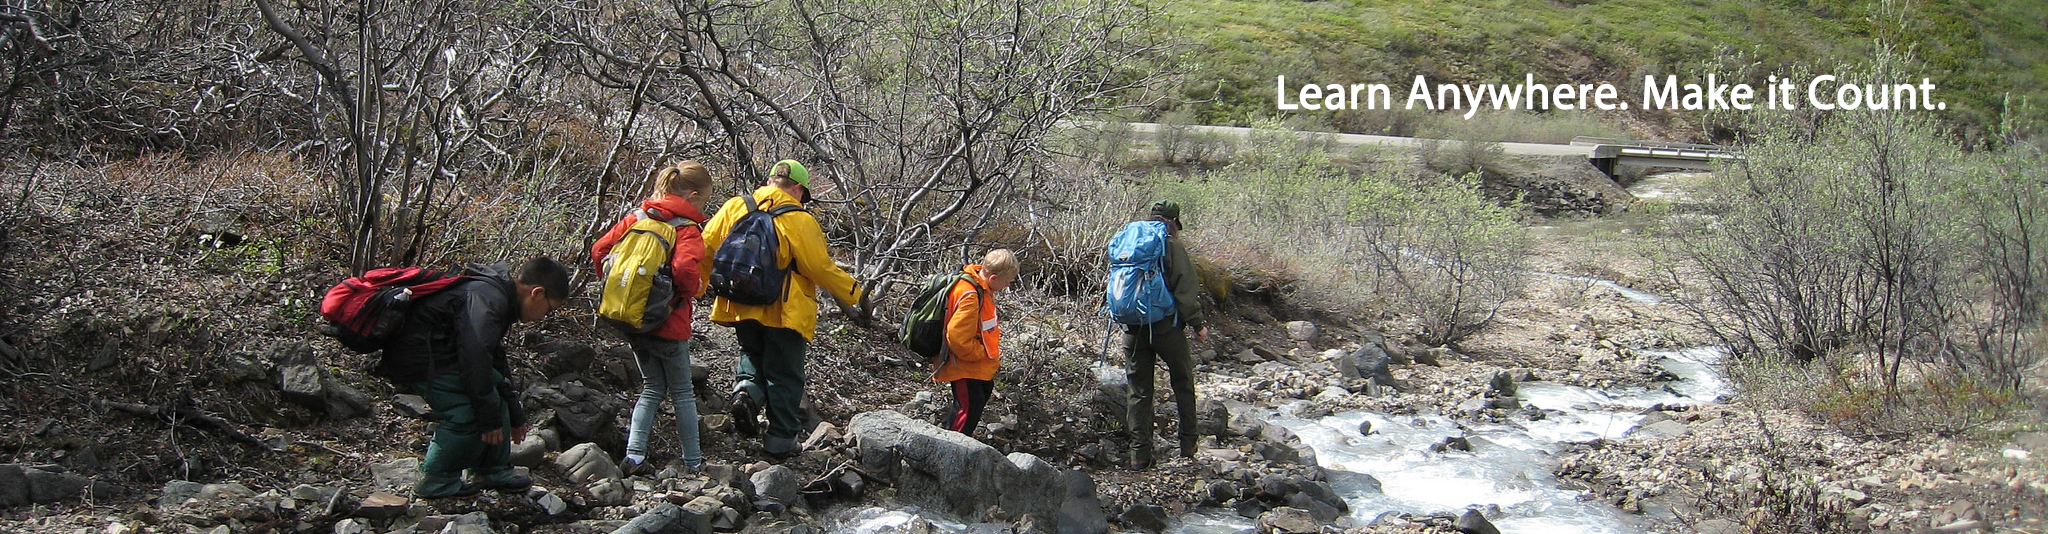
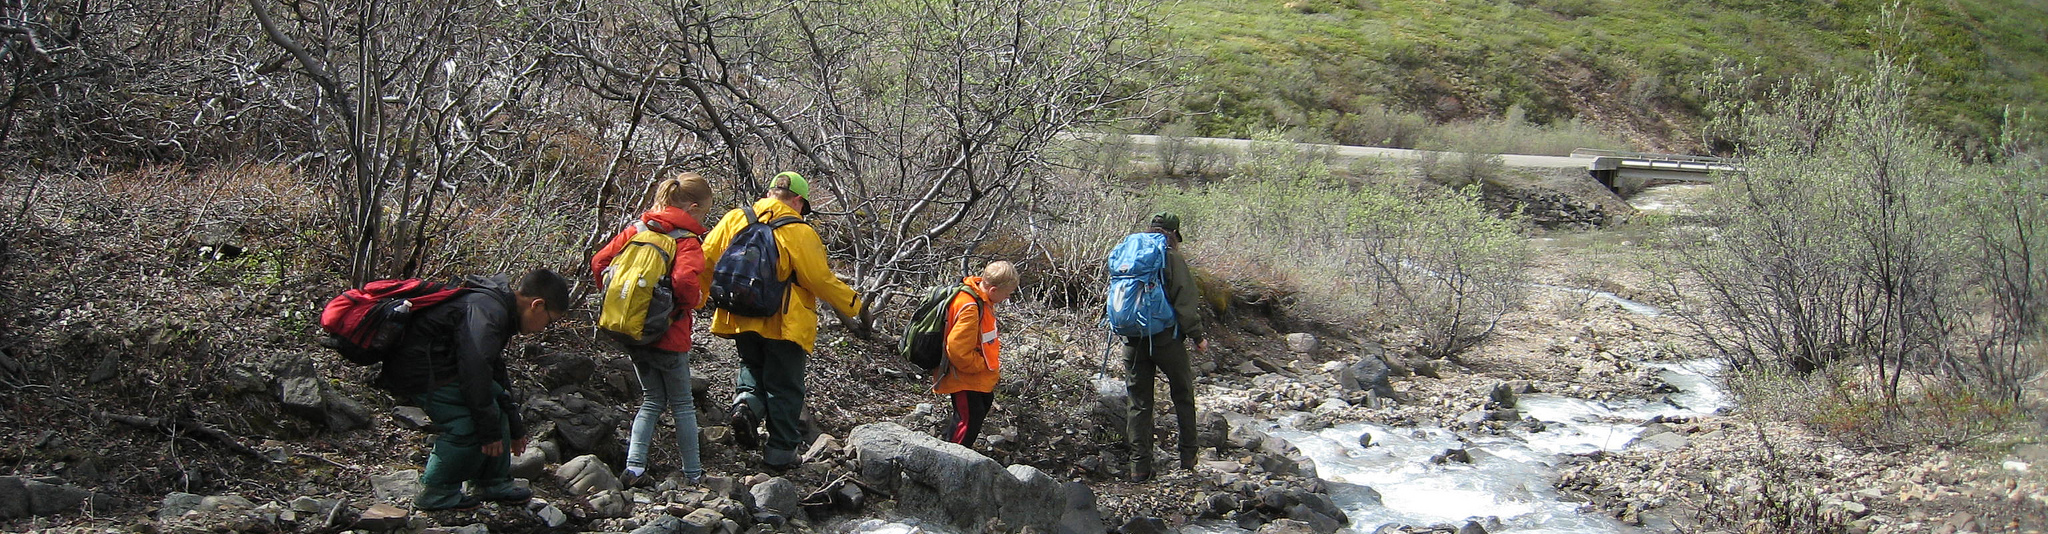
Cleaning up explore page and css tweaks on about page

diff --git a/themes/msol/public/less/msol.less b/themes/msol/public/less/msol.less
@@ -155,12 +155,19 @@ img, .badge-class {
   width: 70%;
 }
 
-.issuer-list img {
-  width: 50%;
-}
+
 .badge-list p, .issuer-list p {
   font-size: @font-size-base;
   padding-top: 10px;
+}
+
+.explore-text {
+  color: @white;
+  font-family: @font-family-sans-serif;
+  font-size: @font-size-h3;
+  position: absolute;
+  right: 5%;
+  top: 10%;
 }
 
 
@@ -258,10 +265,13 @@ img.fade {
 @media (max-width: 767px) {
 
 
-  ul.subnav, .subnavbar,.lighthouse-header {
+  ul.subnav, .subnavbar,.lighthouse-header,.explore-header {
     display: none;
   }
 
+  .what-it-is p {
+    padding: 15px 10px 0 10px;
+  }
 
   .how-it-works-desc img, .who-benefits-desc img {
     display: block;
@@ -282,12 +292,20 @@ img.fade {
     width: 30%;
   }
   
-  .badge-list {
+  .badge-list, .issuer-list {
     height: 240px;
   }
 
-  .badge-list img{
+  .badge-list img, .issuer-list img{
     width: 70%;
+  }
+  
+  .footer {
+  height: auto;
+  }
+  
+  .footer .copyright {
+    padding-top: 40px;
   }
 }
 
@@ -316,11 +334,11 @@ img.fade {
     font-size: 90%;
   }
   
-  .badge-list {
+  .badge-list,.issuer-list {
     height: 180px;
   }
 
-  .badge-list img{
+  .badge-list img,.issuer-list img{
     width: 90%;
   }
   
@@ -333,6 +351,8 @@ img.fade {
 
 /* Large Desktops */ 
 @media (min-width: 1200px) {
-
+  .explore-text {
+    right: 15%;
+  }
 }
 

diff --git a/themes/msol/views/public/about.html b/themes/msol/views/public/about.html
@@ -27,7 +27,6 @@
   <div class="row row-spacer-tb">
     <div class="col-md-12">
       <h3 class="text-center what"><a name="what-it-is"></a>What It Is</h3>
-      <br/>
     </div>
   </div>
   <div class="row row-spacer-b what-it-is">
@@ -53,7 +52,6 @@
   <div class="row row-spacer-tb">
     <div class="col-md-12 text-center">
       <h3 class="text-center"><a name="how"></a>How It Works</h3>
-      <br/>
     </div>
   </div>
   <div class="row how-it-works row-eq-height text-center">

diff --git a/themes/msol/views/public/explore.html b/themes/msol/views/public/explore.html
@@ -5,8 +5,9 @@
 
 {% block body %}
 <div class="row">
-  <div class="col-lg-12">
+  <div class="col-lg-12 explore-header">
     <img src="/img/hikers.jpg"/>
+    <div class="explore-text">Learn Anywhere. Make it Count.</div>
   </div>
 </div>
 {% endblock %}
